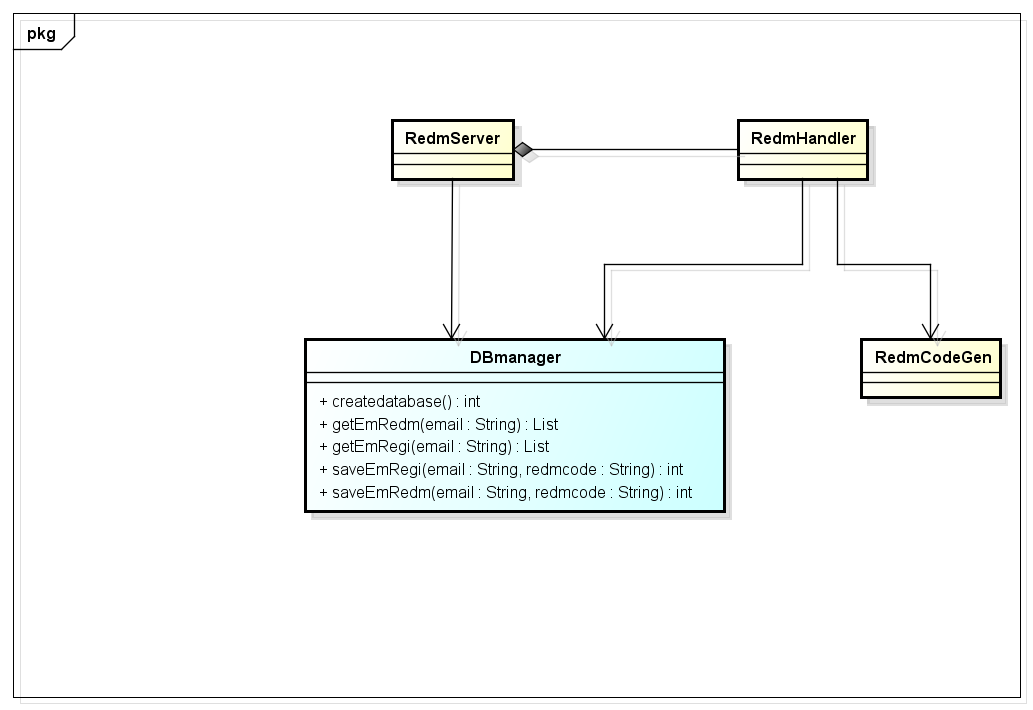
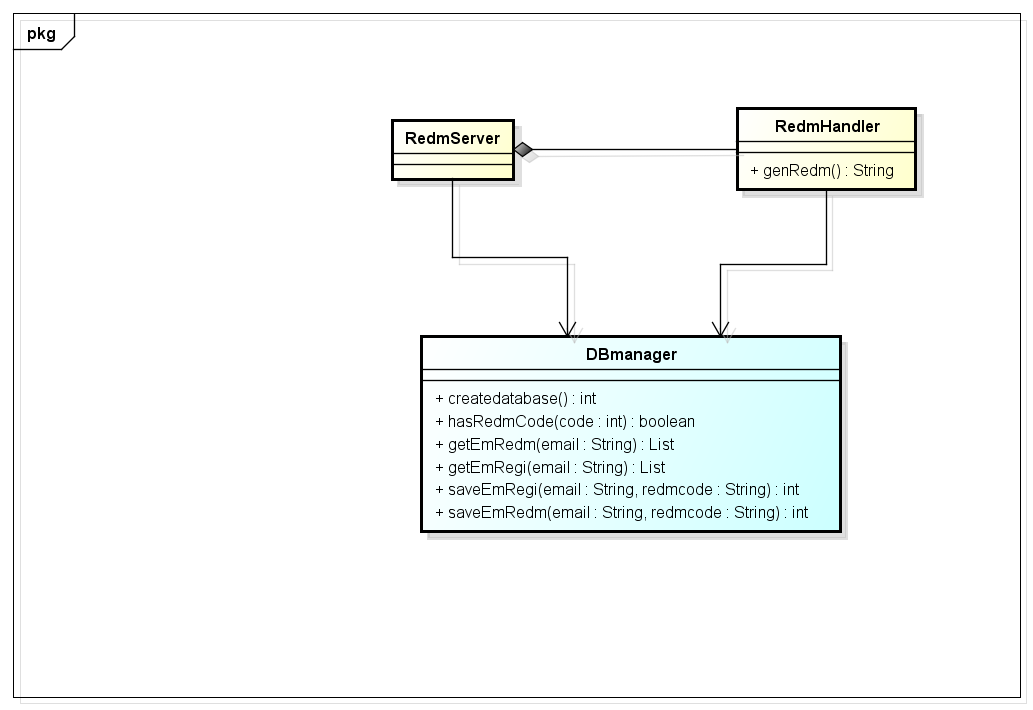
complete basic functions of server
1. correct incorrect spelling
2. sketch service of gift redeem
3. complete the function of redeem code generation
4. complete gift mapping mechanism

Changed region(s): [[0.2788, 0.1239, 0.9913, 0.7746]]

diff --git a/src/server/redmserver.py b/src/server/redmserver.py
@@ -1,7 +1,7 @@
 ## file: redmserver is a http server that provide services to register email and redeem gift.
 
 from BaseHTTPServer import BaseHTTPRequestHandler, HTTPServer
-import os,time, urllib, sqlite3
+import os,time, urllib, sqlite3, random
 import dbman, util
 
 DBPATH = 'redmdb.db'
@@ -15,6 +15,7 @@ ERROR_NOREG = '<xml><error>no such redeem code</error></xml>' # no such email an
 ERROR_RCUSE = '<xml><error>the redeem code has been used</error></xml>' # the redeem code has been used
 ERROR_NOSRV = '<xml><error>there provide no such service</error></xml>' # there is no such service
 
+GIFTLIST = ['gift01','gift02','gift03','gift04','gift05','gift06','gift07','gift08','gift09','gift10']
 
 class RedmServer:
     def __init__(self):
@@ -22,6 +23,7 @@ class RedmServer:
         # 1. check database is existed
         if not os.path.exists(DBPATH):
             self.dbm.createdatabase()
+            
         # 2. set parameter and start up the server
         server = HTTPServer
         httpd = server(('localhost',8080), RedmHandler)
@@ -89,18 +91,75 @@ class RedmHandler(BaseHTTPRequestHandler):
        
         # expected path: /redeem?email=xxx@somewhere&redmcode=xxxxxxxx
         elif service == '/redeem':
+            try:
+                temp = qrystmt.split('&')
+                emailstmts = temp[0].split('=')
+                codestmts = temp[1].split('=')
+                emailpara = emailstmts[0]
+                emailvalue = emailstmts[1]
+                codepara = codestmts[0]
+                codevalue = codestmts[1]
+            except:
+                self.wfile.write(ERROR_CMDER)
+                return
+            
+            if (emailpara != 'email') or (codepara != 'redmcode'):
+                self.wfile.write(ERROR_CMDER)
+                return
+            
             # 1. check redeem code and email is in registration
+            regicodes = dbm.getEmRegi(emailvalue)
+            print '>>>',regicodes
+            print '>>>',codevalue
+            if codevalue not in regicodes:
+                self.wfile.write(ERROR_NOREG)
+                return
+                
             # 2. check redeem code is not in redeem record
+            redmrecords = dbm.getEmRedm(emailvalue)
+            if codevalue in redmrecords:
+                self.wfile.write(ERROR_RCUSE)
+                return 
+                
             # 3. check email redeem times
-            # 4. save redeem record into database
+            redmtime = len(dbm.getEmRedm(emailvalue))
+            if redmtime >= 3:
+                self.wfile.write(ERROR_EMLMT)
+                return
+            
+            # 4. get gift and save redeem record into database
+            gift = self.getGift(codevalue)
+            dbm.saveGtRedm(codevalue, gift)
+            
             # 5. return message
-            self.wfile.write('<xml><result>suceess</result></xml>')
+            rpstmt = '<xml><result>gift redeem succss</result>\
+            <email>%s</email>\
+            <redmcode>%s</redmcode></xml>\
+            <gift>%s</gift>'%(emailvalue, codevalue, gift)
+            self.wfile.write(rpstmt)
         
         else:
             self.wfile.write(ERROR_NOSRV)
             
     def genRedmCode(self):
-        return '1234abcd'
+        ## ascii 'a' = 97, 'z' = 122
+        codespace = []
+        redmcode = ''
+        for num in range(10):
+            codespace.append(str(num))
+        for asc in range(97,123):
+            codespace.append(str(unichr(asc)))
+        for idx in range(8):
+            redmcode = redmcode+(random.choice(codespace))
+        print '[genRedmCode]',redmcode
+        return redmcode
+        
+    def getGift(self, code):
+        codesum = 0
+        for cha in code:
+            codesum = codesum + ord(cha)
+        select = codesum%len(GIFTLIST)
+        return GIFTLIST[select]
     
 if __name__=='__main__':
     svr = RedmServer()

diff --git a/src/server/dbman.py b/src/server/dbman.py
@@ -28,11 +28,11 @@ class DBmanager:
         return testdata1
         
     def getEmRegi(self, email):
-        pass
+        return ['01234567','12345678','abcdefgh']
         
     def saveEmRegi(self, email, redmcode):
         pass
         
-    def saveEmRedm(self, email, redmcode):
+    def saveGtRedm(self, email, redmcode):
         pass
     
